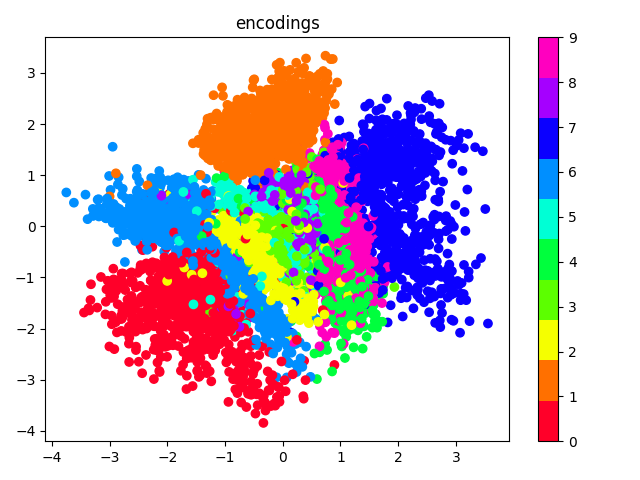
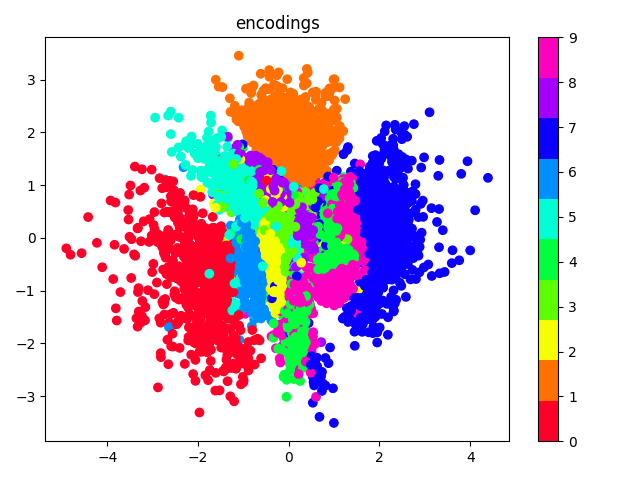
Updated results

diff --git a/main.py b/main.py
@@ -16,7 +16,7 @@ def main():
 
     # define models parameters
 
-    units = [128, 64, 32]
+    units = [512, 256, 128, 64, 32, 16, 8]
     latent_dim = 2
     input_dim = 28 * 28
     beta = 10.
@@ -43,7 +43,7 @@ def main():
 
     # train model
 
-    model.fit(train_dataset, epochs=100, callbacks=[tensorboard])
+    model.fit(train_dataset, epochs=200, callbacks=[tensorboard])
 
     # plot encodings
 

diff --git a/README.md b/README.md
@@ -9,7 +9,7 @@ Tensorflow implementation of dense variational autoencoder for MNIST dataset.
 In probabilistic modelling, one is often interested in inferring the posterior 
 distribution p(z|x) of some latent variables z given the observations x
 
-![equation](equations/Tex2Img_1652877859.jpg)
+![equation](equations/1.svg)
 
 The term in the denominator of above equation is called the evidence, the 
 calculation of which results in solving the following integral
